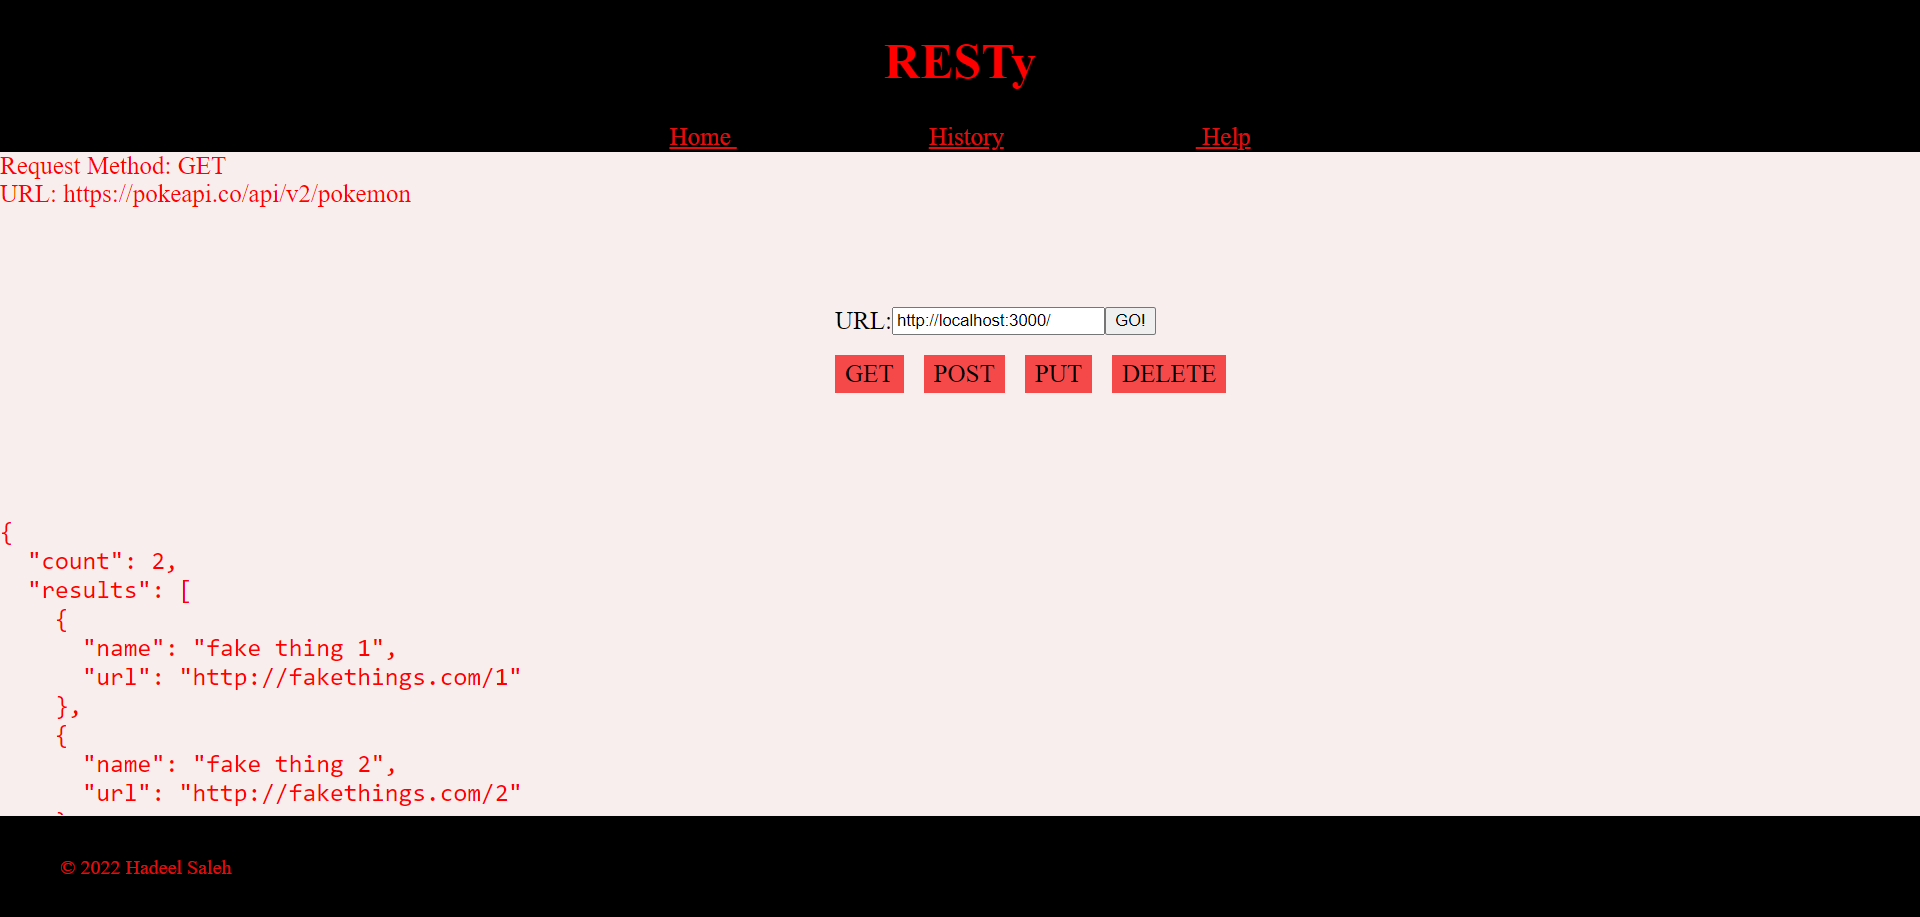
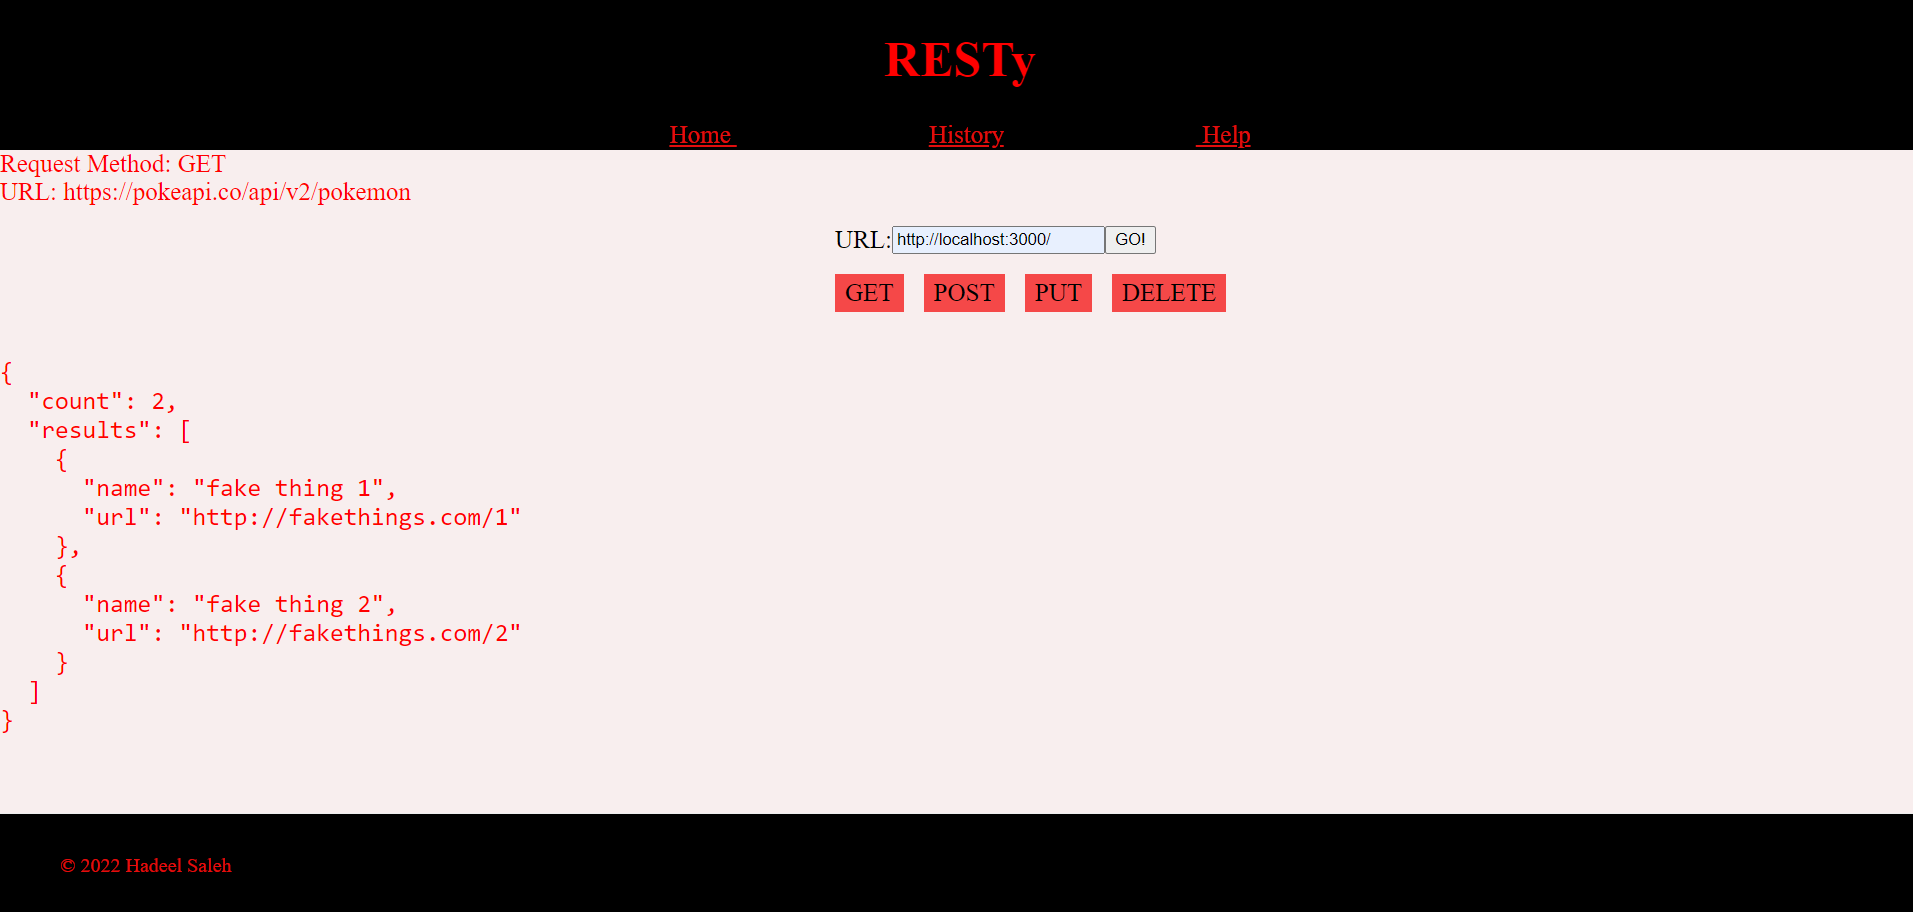
update css

diff --git a/src/App.js b/src/App.js
@@ -28,14 +28,18 @@ class App extends React.Component {
 
   render() {
     return (
+      <>
       <React.Fragment>
         <Header />
         <div>Request Method: {this.state.requestParams.method}</div>
         <div>URL: {this.state.requestParams.url}</div>
+        <div className='flex'>
         <Form handleApiCall={this.callApi} />
         <Results data={this.state.data} />
+        </div>
         <Footer />
       </React.Fragment>
+      </>
     );
   }
 }

diff --git a/src/app.scss b/src/app.scss
@@ -34,5 +34,9 @@ body {
     padding: 0;
     margin: 0;
     text-align: center;
+  }
+  .flex{
+    display: flex;
+    flex-direction: column;
   } 
 }
